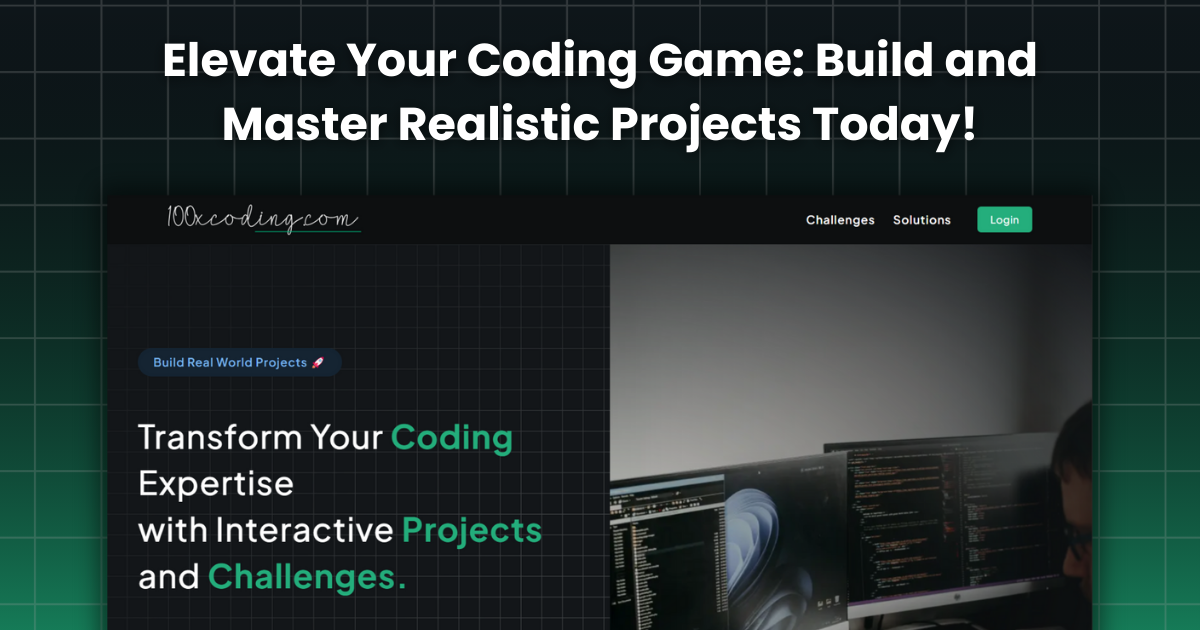
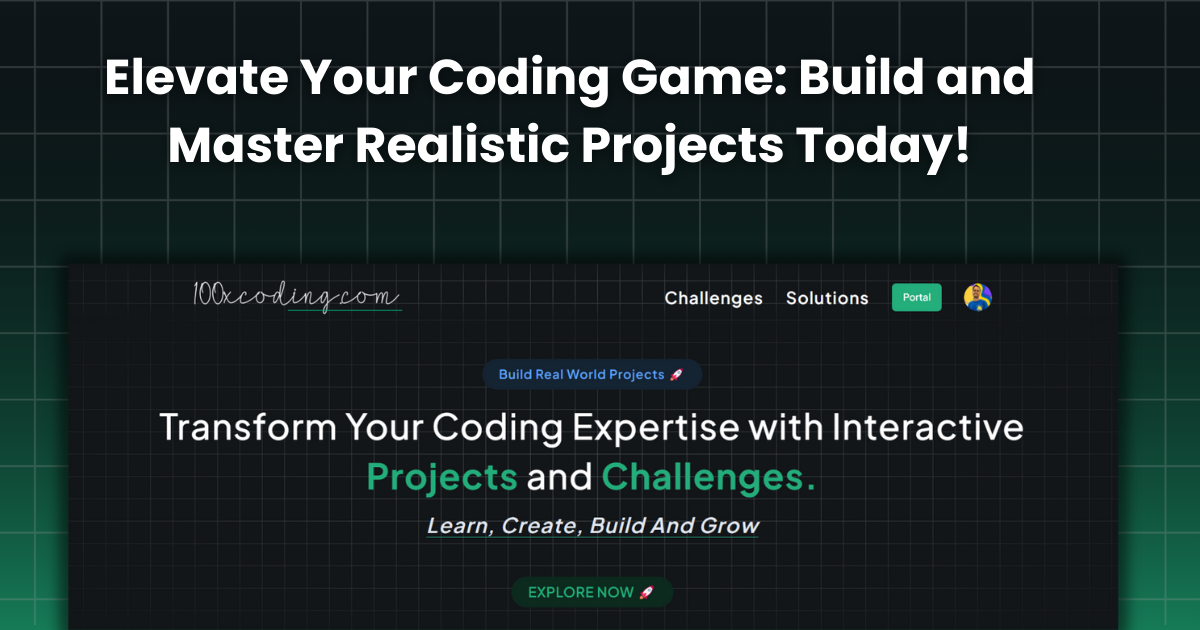
og images fix

diff --git a/src/app/layout.tsx b/src/app/layout.tsx
@@ -20,6 +20,17 @@ export const metadata: Metadata = {
   },
   description:
     "Boost your front-end development skills with 100xCoding. Tackle real-world projects and master HTML, CSS, and JavaScript through hands-on challenges designed with professional standards.",
+  twitter: {
+    card: "summary_large_image",
+  },
+  openGraph: {
+    title:
+      "Master front-end development by building real-world projects. Enhance your HTML, CSS, and JavaScript skills through hands-on challenges crafted with professional designs.",
+    description:
+      "Boost your front-end development skills with 100xCoding. Tackle real-world projects and master HTML, CSS, and JavaScript through hands-on challenges designed with professional standards.",
+    images: ["/src/app/opengraph-image.png"],
+  },
+  metadataBase: new URL("https://100xcoding.com"),
 };
 import { Toaster } from "sonner";
 import SWRProvider from "@/components/providers/swr-provider";

diff --git a/src/app/(root)/challenges/[slug]/page.tsx b/src/app/(root)/challenges/[slug]/page.tsx
@@ -39,6 +39,8 @@ export async function generateMetadata({
     title: challenge?.title,
     description: challenge?.description,
     openGraph: {
+      title: challenge?.title,
+      description: challenge?.description!,
       images: [
         {
           url: getImageUrl(challenge?.image!),
